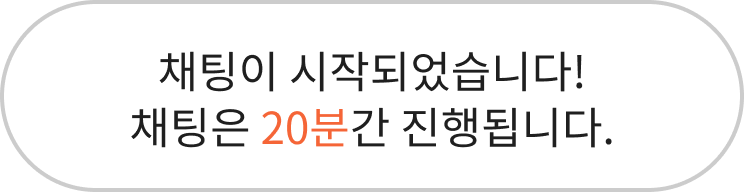
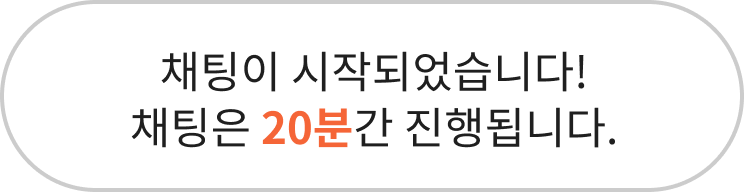
[그룹챗] 챗매니저 수정 및 버튼 색 수정

Changed region(s): [[0.1546, 0.5625, 0.8347, 0.7812], [0.2164, 0.25, 0.8038, 0.5]]

diff --git a/gameChat/Assets/GameChatSample/Resources/chatResource/ChatManager.cs b/gameChat/Assets/GameChatSample/Resources/chatResource/ChatManager.cs
@@ -156,21 +156,21 @@ public class ChatManager : MonoBehaviour
         {
             Transform CurAIArea = Instantiate(AIArea).transform;
             CurAIArea.SetParent(ContentRect.transform, false);
-            CurAIArea.GetComponent<AreaScript>().DateText.text = ("단체 채팅 종료까지 \n" + Mathf.Ceil(currentTime / 60) + "분 남았습니다.");
+            CurAIArea.GetComponent<AreaScript>().DateText.text = ("단체 채팅 종료까지 \n" + "<b>" + Mathf.Ceil(currentTime / 60) + "</b>" + "<b>분</b> 남았습니다.");
             ai = true;
                 }
         if (currentTime <= 300 && 299 <= currentTime && ai)
         {
             Transform CurAIArea = Instantiate(AIArea).transform;
             CurAIArea.SetParent(ContentRect.transform, false);
-            CurAIArea.GetComponent<AreaScript>().DateText.text = ("단체 채팅 종료까지 \n" + Mathf.Ceil(currentTime / 60) + "분 남았습니다.");
+            CurAIArea.GetComponent<AreaScript>().DateText.text = ("단체 채팅 종료까지 \n" + "<b>" + Mathf.Ceil(currentTime / 60) + "</b>" + "<b>분</b> 남았습니다.");
             ai = false;
         }
         if (currentTime <= 180 && 179 <= currentTime && !ai)
         {
             Transform CurAIArea = Instantiate(AIArea).transform;
             CurAIArea.SetParent(ContentRect.transform, false);
-            CurAIArea.GetComponent<AreaScript>().DateText.text = ("단체 채팅 종료까지 \n" + Mathf.Ceil(currentTime / 60) + "분 남았습니다.");
+            CurAIArea.GetComponent<AreaScript>().DateText.text = ("단체 채팅 종료까지 \n" + "<b>" + Mathf.Ceil(currentTime / 60) + "</b>" + "<b>분</b> 남았습니다.");
             ai = true;
         }
 
